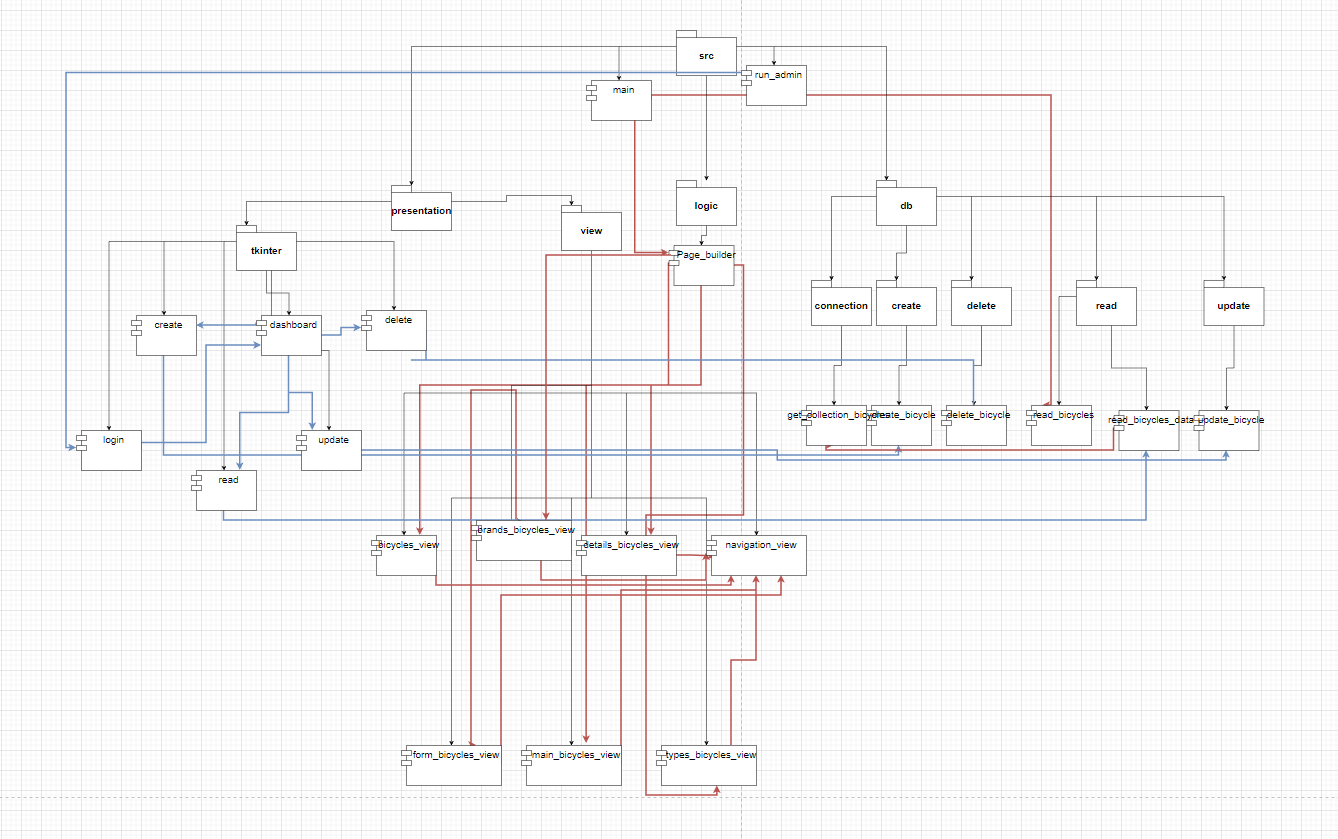
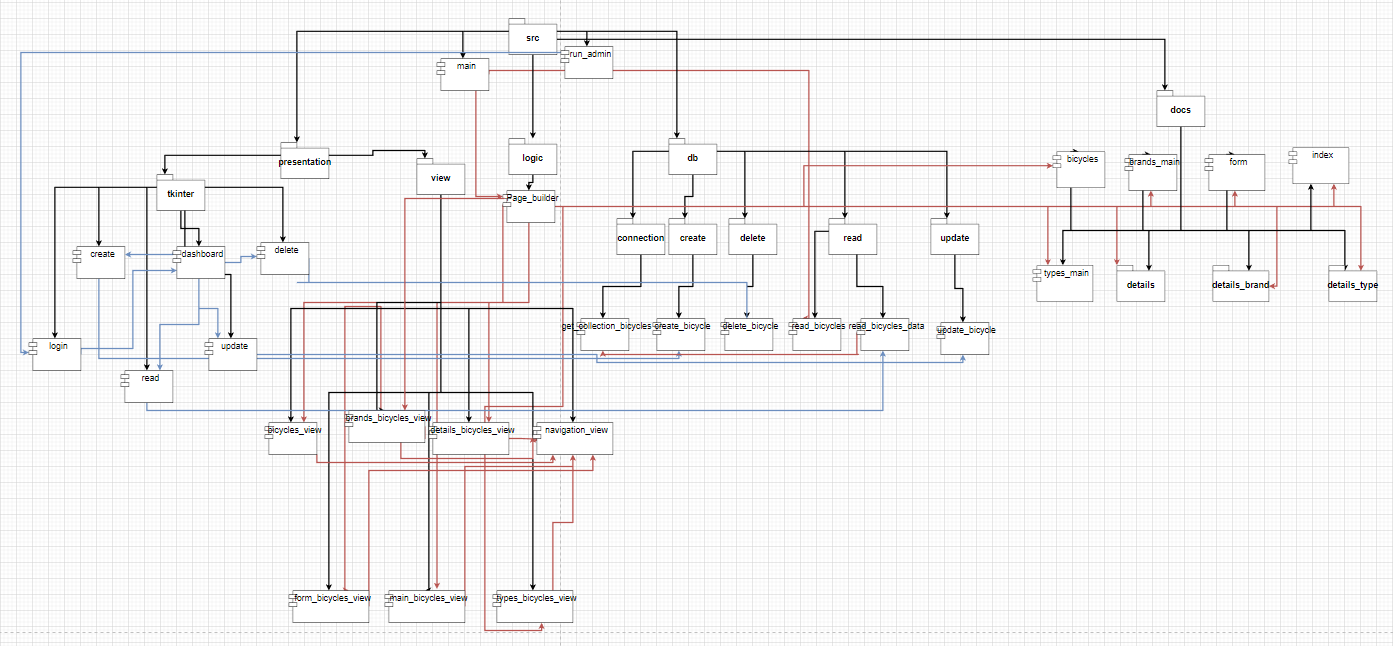
docs update README

diff --git a/README.md b/README.md
@@ -12,7 +12,7 @@ Explicar generar html y que hay una interfaz admin para CRUD bicycles.
 - GIT
 
 ### Modulos Python
-Modules de python, estan en requirements.txt
+Modules de python, están en requirements.txt
 
 Python: Tkinter, pytest
 
@@ -23,16 +23,16 @@ Executar: pip install -r requirements.txt
 
 
 ### Uso
-1. Generar HTML: main.py
-2. Tkinter: run_admin.py
 
-En main.py todas las funciones para crear los archivos:
-index.html
-En run_admin
+- Para generar HTML se debe utilizar main.py, solo debes ejecutar este archivo y se generarán todos los archivos html.
+- Para llevar a cabo las operaciones CRUD debes ejecutar el archivo run_admin.
+  1. Una vez ejecutado, saldrá una pequeña ventana que nos pedirá usuario y contraseña. El usuario es Admin y la contraseña 1234.
+  2. Una vez dentro, nos dará a elejir entre las opciones: ***Actualizar, Eliminar, Crear y Leer.***
+
 
 ## Metodología
 
-Hemos utilizado la metodología SCRUM, nos hemos planificado en dos SPRINTS.
+Hemos utilizado el marco de trabajo SCRUM, nos hemos planificado en dos SPRINTS.
 
 En el primero hicimos lo más relevante para el cliente, que era mostrar todas las bicicletas en una página, otra página
 que las muestre según su marca y otra que las muestre según su tipo. En este sprint también añadimos CSS a las páginas web
@@ -50,26 +50,33 @@ Links de los validadores:
 
 ## Implementación
 
-Lo que se ha instalado y utlizado de Python y MongoDb
+
 
 - Python
   - **Pytest** es un marco de trabajo que permite realizar pruebas unitarias para un software en Python. Lo hemos utilizado para comprobar el correcto funcionamiento de las funciones y librerías
   - **Coverage** con **pytest** es lo que utilizamos para medir el código que cubre un programa. Crea informes en una gran variedad de formatos.
   - **Tkinter** es la interfaz gráfica por defecto de Python. Es un módulo que envuelve la impelentación de widgets como clases. Es un módulo interno.
+
+
 - MongoDB
   - **MongoAtlas** es un servicio de Cloud Database. Esto nos permite administrar la BBDD Mongo desde cualquier lugar.
   - **MongoCompass** es la versión de escritorio de MongoAtlas. Se puede utilizar en sustitución de MongoAtlas.
   - **MongoShell** es el shell de MongoDB, desde este nos podemos conectar directamente a nuestra base de datos y llevar un control más exacto de las acciones que hacemos sobre ella sin interfaz gráfica.
   - **Pymongo** Es la librería que contiene las herramientas que utlizamos para trabajar con MongoDB en Python.
+  
+
 - **HTML5 y CSS**
   - Flex y Grid con CSS.
   - Media queries para hacer la parte responsive para tablets.
 - Git para llevar a cabo el control de versiones.
 - Markdown
+- GitHub Pages como servidor web para alojar nuestra página estática.
 
 ## Requisitos
+
+En este apartado explicamos los requisitos mínimos que tenía que cumplir este proyecto.
 - El usuario puede ver un listado con todas las bicicletas
-- El ussuario puede iniciar la navegación desde una página principal para poder visitar las páginas web
+- El usuario puede iniciar la navegación desde una página principal para poder visitar las páginas web
 - El usuario puede listar las biciceltas según su marca
 - El usuario puede ver una página con los detalles de cada bicicleta
 - El usuario puede navegar hasta la página principal para acceder a las diferentes páginas
@@ -85,11 +92,34 @@ Lo que se ha instalado y utlizado de Python y MongoDb
 #### Marcado rojo (Creación de la interfaz web)
 Con el marcado rojo indicamos las relaciones que hay en los módulos con sus diferentes funciones de la creación de la interfaz web.
 
-#### Marcado azul
+#### Marcado azul (Realización CRUD Tkinter)
 Con el marcado azul indicamos las relaciones que hay entre los módulos de la interfaz CRUD creada con Tkinter.
-#### Marcado negro
+#### Marcado negro (Relación de paquetes y módulos)
 Con el marcado negro indicamos las relaciones entre paquetes y módulos.
 
+#### Componentes
+
+`logic` package que contiene page_builder, es el archivo encargado de crear los diferentes archivos, coordina todas las funciones que están dentro de /presentation/view.  
+
+`presentation` package que contiene los packages `view` y `tkinter`.  
+
+`view` package que contiene las diferentes plantillas que son llamada.
+
+`tkinter` package que contiene la interfaz gráfica que se relaciona con el CRUD.
+
+`db` package que contiene los packages `connection`, `create`, `delete`, `read`, `update`.
+
+- `connection` package que contiene el módulo encargado de conectarse con la base de datos.
+
+- `create` package que contiene el módulo encargado de crear los documentos en la base de datos.
+
+- `delete` package que contiene el módulo encargado de eliminar documentos en la base de datos.
+
+- `read` package que contiene los módulos encargados de leer la información en la base de datos. 
+
+- `update` package que contiene el módulo encargado de actualizar documentos en la base de datos.
+
+`docs` fichero donde se encuentran los diferentes archivos html y css.
 
 - db, logic, presentasion
     - que rol tiene cada folder
@@ -103,21 +133,43 @@ Con el marcado negro indicamos las relaciones entre paquetes y módulos.
 
 ### CLOCKIFY
 
-Como se puede ver en el gráfico, hemos invertido 112h, es una aproximación, ya que cuando empezamos a hacer el proyecto, no teníamos esta herramienta.
+Hemos utilizado Clockify para tener bajo control el tiempo que dedicábamos a cada cosa.
 
 - **Creating DB:** Diseñar la arquitectura de la base de datos e imputar los datos necesarios para realizar las pruebas lo más realistas posibles.
 - **Creating tests:** Crear las pruebas necesarias para asegurarnos de que el código hace lo que queremos que haga y que se encuentren el mínimo de bugs posibles.
 - **Documentation:** Crear Readme y diagramas.
 - **Git-Hub Pages:** Arreglar todos los problemas ocasionados por rutas y entender GitHub Pages.
-- 
+- **HTML and CSS:** En este apartado no solo contamos la creación de los archivos CSS, también contamos la creación de los archivos HTML desde Python, ya que hemos realizado un script de Python para que escriba todo el HTML y cree los archivos necesarios.
+- **Refactoring:** Aquí reflejamos el tiempo que hemos dedicado a hacer más entendible el código y quitar partes que no eran necesarias del mismo.
+- **Tkinter:** Hacer la interfaz gráfica del CRUD.
+
+***En todos estos apartados no ha sido incluido el tiempo de aprendizaje como tal, solo el de implementación.***
 
 ![Gráfico Clockify](/readme_images/Clockify.PNG)
-- En que hemos invertido el tiempo
+
+Nuestra predicción era de un tiempo mucho menor. En el apartado de dificultades explicamos por qué no pudimos cumplir con las expectativas.
 
 ### Conclusion
-- Puntos fuertes de programa
-- Possibles mejores
+- Puntos fuertes del programa
+  - Rápido y fiable: Hemos puesto muchas horas para que la aplicación sea lo más eficiente posible
+  - Variable de entorno: En vez de tener toda la información sensible de la conexión a la base de datos, hemos creado una variable de entorno y la llamamos desde la URI de MongoAtlas.
+  - Actualizacion y despliegue facil de los archivos html.
+  - Creemos tener un código bien organizado.
+- Posibles mejores
+  - Creación de funciones: Nos hemos dado cuenta de que podríamos haber creado más funciones para introducirlas en nuestros archivos HTML, ya que utilizamos las mismas partes en diferentes páginas y viera quedado un codigo más limpio, como por ejemplo el footer. 
+  - Realizar la colección de tiendas: Nuestro plan era realizar en la base de datos una colección llamada tiendas, con diferentes tiendas en Mallorca, pero por falta de tiempo, hemos decidido no incluirla.
+  - Administración de tiempo: Empezamos con el proyecto enseguida que se nos comunicó y decidimos hacerlo con librerías y modulos de python. Al explicarnos por completo el proyecto, se nos dijo que no podíamos utilizar dichas librerías y tuvimos que refactorizar todo el proyecto.
+  - Invertir más tiempo en el diseño: Nos viera gustado realizar nuestro front-end de mejor manera, pero al final hemos querido cumplir con los requisitos que se pedían y invertir más tiempo en el back-end, documentación, etc.
+  - Commits: Empezamos haciendo muy pocos commits.
+  - CSS se podría organizar mejor: Tenemos código CSS que lo usamos en todos varias páginas, pero lo hemos escrito varias veces en archivos diferentes de css. El CSS que comparten varias páginas, se podrían guardar en un único archivo css y usar este archivo en todas las páginas en las que se usan las mismas clases.
 
 ### Dificultades
 
-- Organización del tiempo
+- Tkinter: Hemos tenido que estudiar como funciona Tkinter con Python y saber elaborar la interfaz gráfica para realizar el CRUD
+- Pymongo: Hemos tenido que estudiar como funciona pymongo para poder extraer los datos que tenemos en nuestra base de datos.
+- Realización de tests:
+- Git y github: git nos a dado bastantes, problemas ya que no sabíamos exactamente como trabajar con ello y al principio cometimos bastantes errores, por ejemplo trabajamos en los mismos directorios y archivos y eso nos creaba conflictos a la hora de hacer un push. Con github hemos tenido más facilidades ya que lo estuvimos tocando en el FP medio para subir los proyectos que realizabamos.
+- Problemas con las rutas del entorno local y el entorno prod: Las mismas rutas no nos iban bien en los dos entornos. Hemos tenido que simular un entorno prod con un servidor web local. Para ello hemos usado el servidor http que viene por defecto con python: https://developer.mozilla.org/en-US/docs/Learn/Common_questions/set_up_a_local_testing_server 
+- Github pages: Hemos tenido que reorganizar algunas carpetas para hacer un desploy correcto en Github Pages. Aparte de esto, hemos tenido que corregir los link en la pagina porque estaban rotos.
+- Organización del tiempo: Al ser el primer proyecto grande que haciamos, consideramos que podríamos haber tenido una mejor organización del tiempo.
+- Encoder UTF-8: Dedicamos más del tiempo esperado para esto, ya que no era un problema de HTML y era un trozo de codigo que teníamos que añadir en el page_builder al crear nuestras páginas HTML
